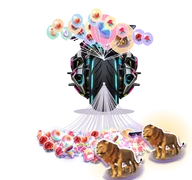
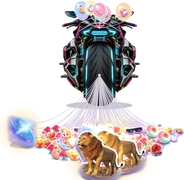
Gift car: motorbike gets a small tight balloon bunch tied at the rear seat

diff --git a/packages/overlay/public/dragcar.html b/packages/overlay/public/dragcar.html
@@ -47,7 +47,7 @@
       sports: { src: 'themes/car-sports.webp', x: -333.4, y: -360, w: 666.8, h: 360, hook: { x: -0.2, y: -38.9 } },
       offroad: { src: 'themes/car-offroad.webp', x: -242.6, y: -360, w: 485.2, h: 360, hook: { x: -0.4, y: -60.1 } },
       jdm: { src: 'themes/car-jdm.webp', x: -261.2, y: -360, w: 522.5, h: 360, hook: { x: -0.4, y: -54.7 } },
-      bike: { src: 'themes/car-bike.webp', x: -145.2, y: -360, w: 290.5, h: 360, hook: { x: -0.2, y: -113.1 }, open: true },
+      bike: { src: 'themes/car-bike.webp', x: -145.2, y: -360, w: 290.5, h: 360, hook: { x: -0.2, y: -113.1 }, open: true, balAt: 0.2, balMax: 7, balTight: true },
       tourbus: { src: 'themes/car-tourbus.webp', x: -163.5, y: -360, w: 327.0, h: 360, hook: { x: -0.3, y: -74.6 }, music: true },
       limo: { src: 'themes/car-limo.webp', x: -285.3, y: -360, w: 570.6, h: 360, hook: { x: -0.4, y: -58.5 }, music: true },
       vintage: { src: 'themes/car-vintage.webp', x: -290.5, y: -360, w: 580.9, h: 360, hook: { x: -0.2, y: -89.1 }, open: true, music: true },
@@ -107,11 +107,11 @@
         } catch (e) { /* ignore */ }
       }; im.src = CAR.src;
     })();
-    const balAnchor = () => ({ x: 0, y: CAR_Y + CAR.y + CAR.h * (CAR.open ? 0.42 : roofF + 0.09) });
+    const balAnchor = () => ({ x: 0, y: CAR_Y + CAR.y + CAR.h * (CAR.balAt != null ? CAR.balAt : CAR.open ? 0.42 : roofF + 0.09) });
     function balloonPos(b, t) {
       const a = balAnchor(), i = b.bi, ring = Math.floor(Math.sqrt(i)), k = i - ring * ring, n = 2 * ring + 1;
-      const ang = -Math.PI / 2 + (n > 1 ? (k / (n - 1) - 0.5) : 0) * Math.min(2.2, 0.7 + ring * 0.35);
-      const len = 85 + ring * 32 + (i % 3) * 8;
+      const ang = -Math.PI / 2 + (n > 1 ? (k / (n - 1) - 0.5) : 0) * (CAR.balTight ? 0.9 : Math.min(2.2, 0.7 + ring * 0.35));
+      const len = CAR.balTight ? 95 + ring * 22 + (i % 2) * 10 : 85 + ring * 32 + (i % 3) * 8;
       const gust = Math.sin(t * 0.45) * 0.5 + Math.sin(t * 0.83 + 1.3) * 0.3; // ลมพัดเป็นระลอก (ทุกลูกไปทางเดียวกัน)
       const sw = gust * 0.16 + Math.sin(t * 1.1 + i * 1.7) * 0.07;
       // จอเตี้ย: บีบกลุ่มลูกโป่งให้อยู่ในจอ (ไม่ล้นขอบบน)
@@ -131,7 +131,7 @@
       if (slot < 0) slot = 0;
       const r = Math.min(78, 18 * GIFT_SCALE * sizeFor(g.d, 4.2)); // ของแพงใหญ่ชัด ๆ (Lion/Universe ≈ 4 เท่า)
       const nBal = gifts.filter((b) => b.balloon && !b.dying).length;
-      const balloon = BAL_ON && nBal < BAL_MAX && (++addCount % BAL_EVERY === 0);
+      const balloon = BAL_ON && nBal < (CAR.balMax || BAL_MAX) && (++addCount % BAL_EVERY === 0);
       gifts.push({ g, img: giftImg(g.u), slot, r, born, life: 1, sx: (Math.random() - .5) * 160, sy: CAR_Y - 420 - Math.random() * 120, balloon, bi: balloon ? nextBalIdx() : -1 });
       if (born > 0) punch.kick(g.d >= 1000 ? -6 : -2.5);
     }
